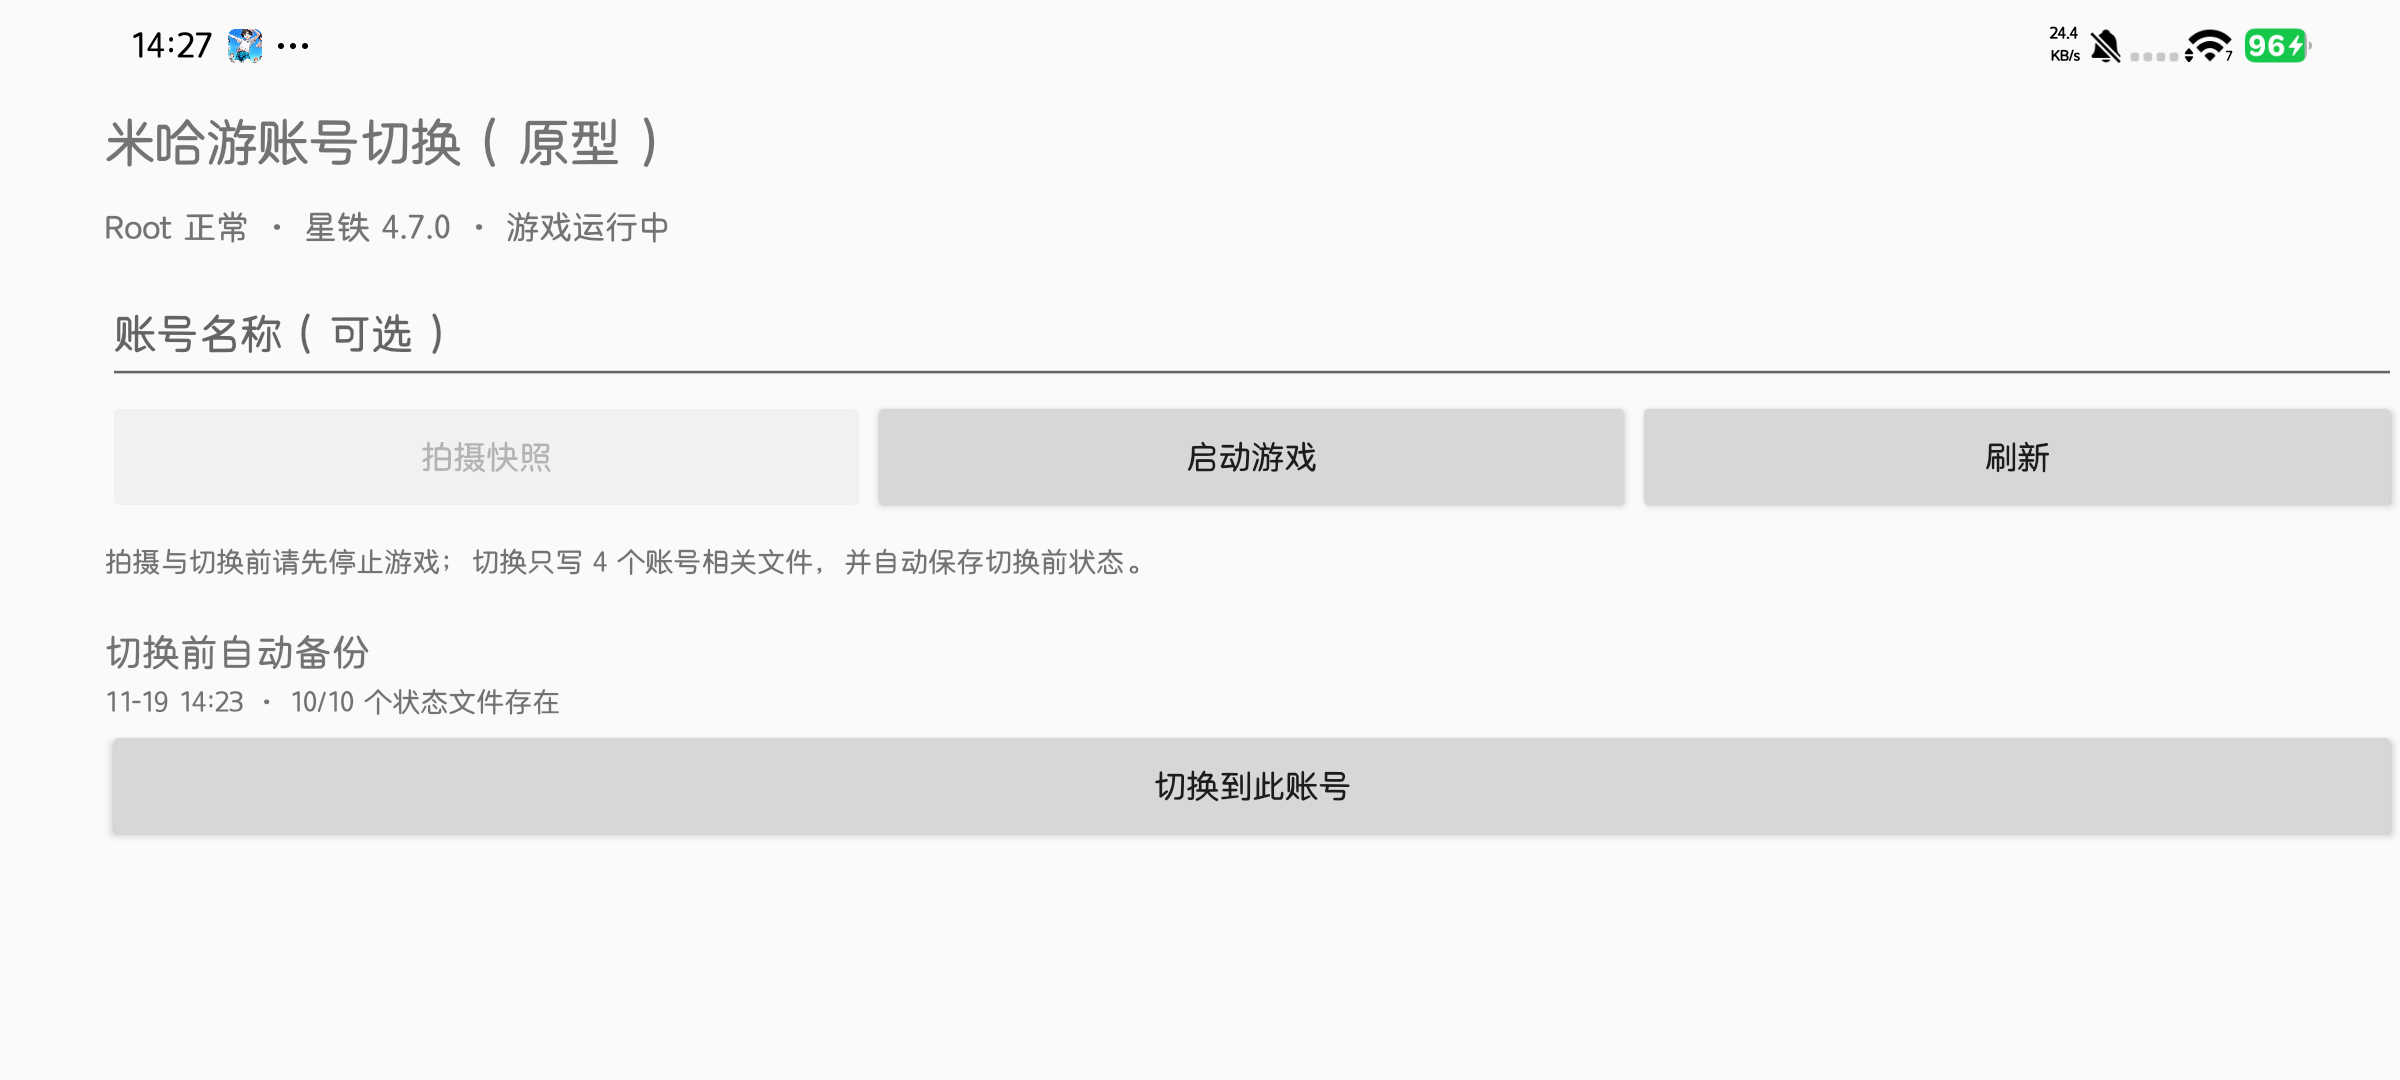
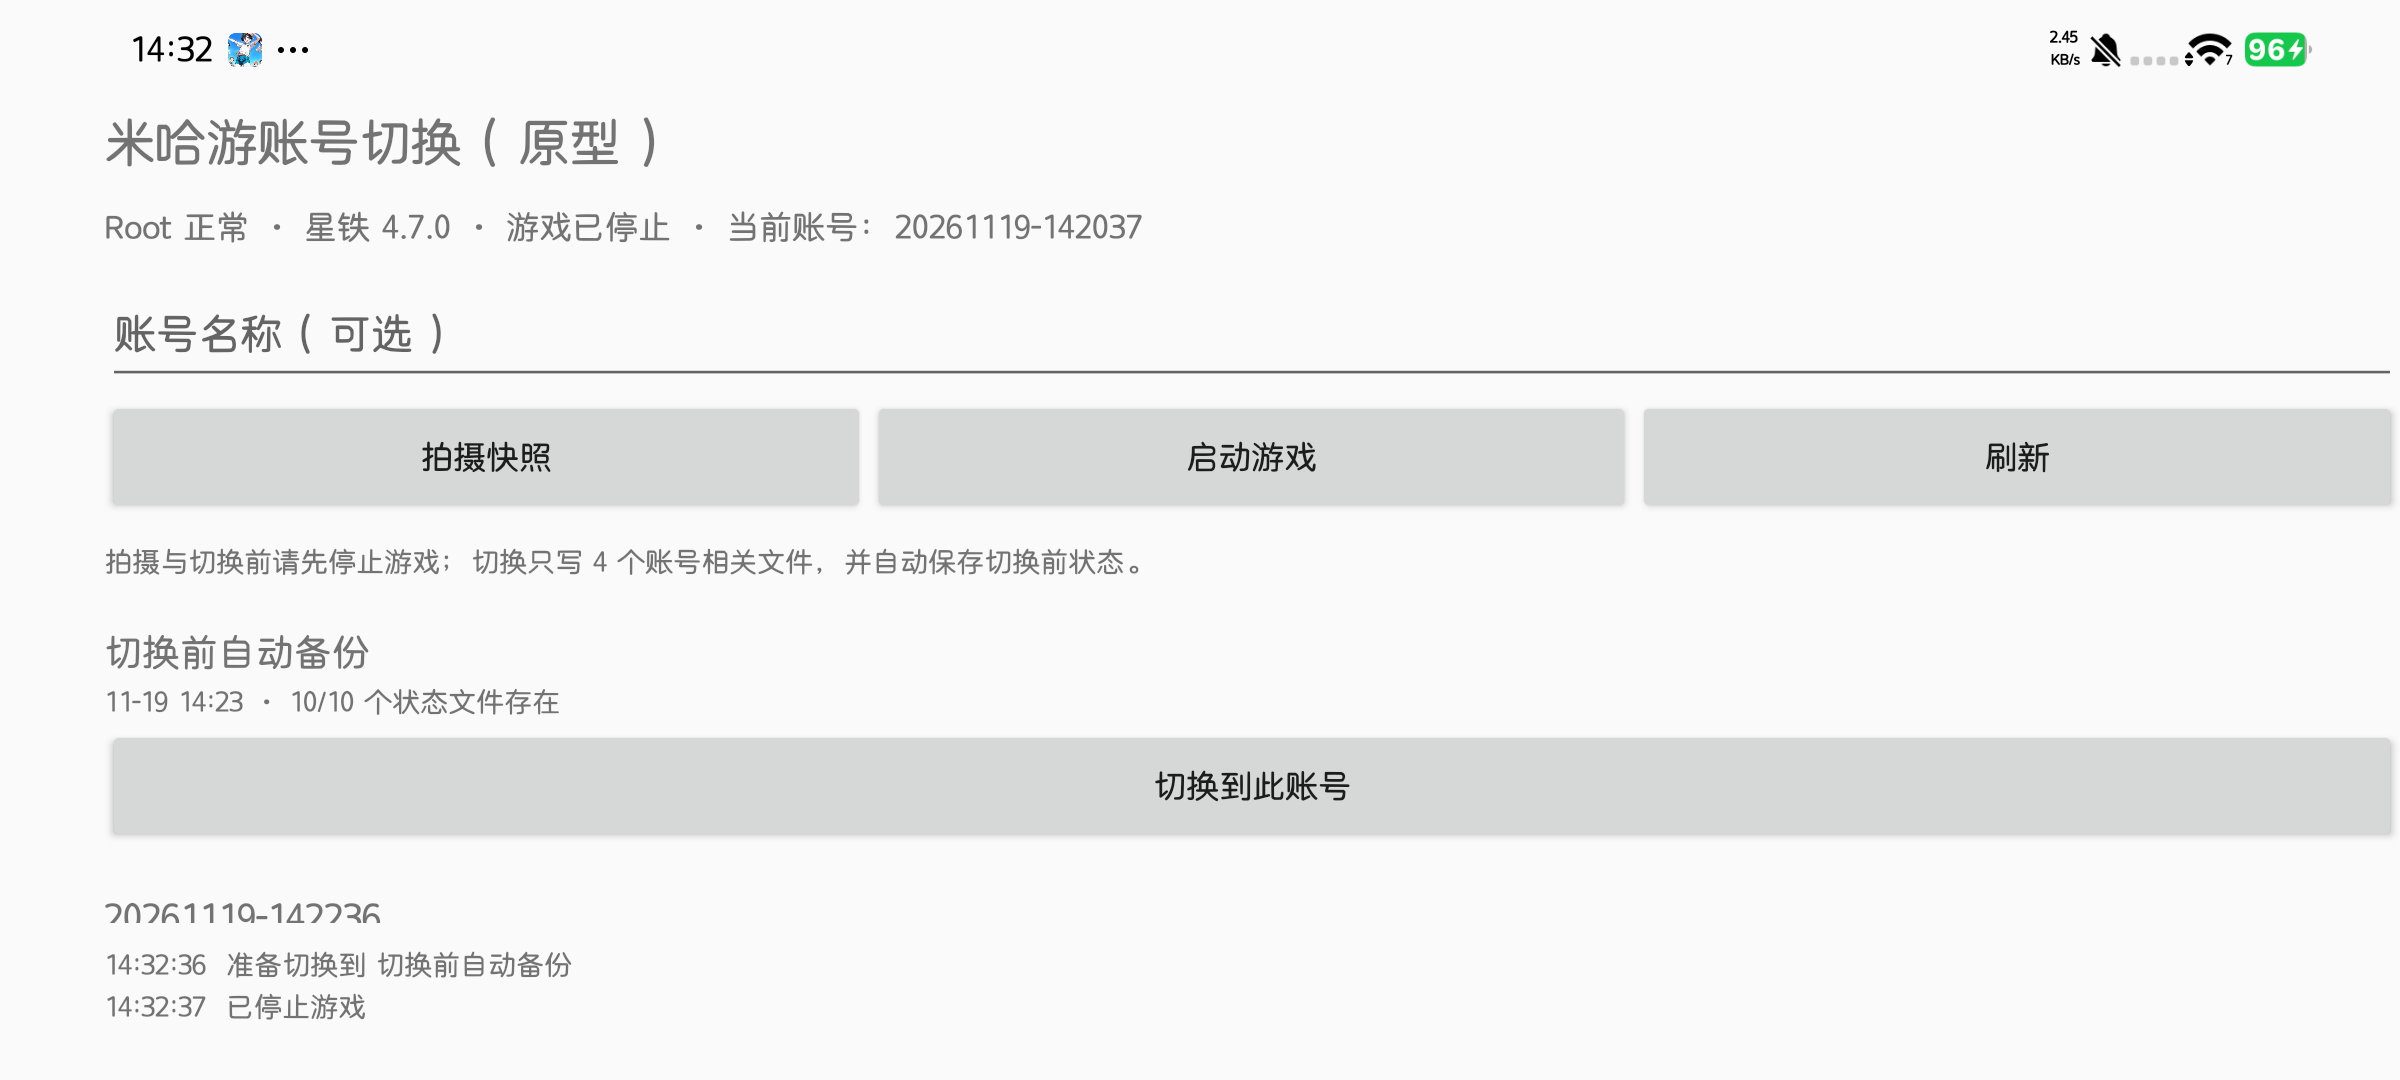
app: show the current account and confirm it before switching

diff --git a/app/src/dev/hoyoswitch/app/MainActivity.java b/app/src/dev/hoyoswitch/app/MainActivity.java
@@ -106,7 +106,7 @@ public final class MainActivity extends Activity {
         ScrollView logScroll = new ScrollView(this);
         logScroll.addView(logView);
         logScroll.setPadding(0, pad / 2, 0, 0);
-        int logHeight = (int) (90 * getResources().getDisplayMetrics().density);
+        int logHeight = (int) (60 * getResources().getDisplayMetrics().density);
         root.addView(logScroll, new LinearLayout.LayoutParams(
                 ViewGroup.LayoutParams.MATCH_PARENT, logHeight));
         logScrollRef = logScroll;
@@ -130,6 +130,7 @@ public final class MainActivity extends Activity {
             boolean running;
             String version;
             List<SnapshotStore.Snapshot> snapshots;
+            SnapshotStore.Current current;
             try {
                 running = StarRailProfile.isRunning();
                 version = StarRailProfile.version();
@@ -138,22 +139,58 @@ public final class MainActivity extends Activity {
                 version = "";
             }
             snapshots = store.list();
+            try {
+                current = store.detectCurrent();
+            } catch (IOException error) {
+                current = null;
+            }
             final boolean rootedNow = rooted;
             final boolean runningNow = running;
             final String versionNow = version;
             final List<SnapshotStore.Snapshot> listed = snapshots;
+            final SnapshotStore.Current currentNow = current;
             main.post(() -> {
+                SnapshotStore.Snapshot matched = match(currentNow, listed);
                 String rootText = rootedNow ? "Root 正常" : "未取得 Root：" + RootShell.lastError();
                 String gameText = versionNow.isEmpty() ? "未检测到星铁" : "星铁 " + versionNow;
                 statusView.setText(rootText + " · " + gameText + " · "
-                        + (runningNow ? "游戏运行中" : "游戏已停止"));
+                        + (runningNow ? "游戏运行中" : "游戏已停止")
+                        + " · 当前账号：" + describe(currentNow, matched));
                 captureButton.setEnabled(rootedNow && !runningNow && !busy);
-                renderCards(listed);
+                renderCards(listed, matched == null ? null : matched.id);
             });
         }).start();
     }
 
-    private void renderCards(List<SnapshotStore.Snapshot> snapshots) {
+    private SnapshotStore.Snapshot match(SnapshotStore.Current current,
+                                         List<SnapshotStore.Snapshot> snapshots) {
+        if (current == null || !current.loggedIn || current.mid.isEmpty()) {
+            return null;
+        }
+        for (SnapshotStore.Snapshot snapshot : snapshots) {
+            if (current.mid.equals(store.accountMid(snapshot))) {
+                return snapshot;
+            }
+        }
+        return null;
+    }
+
+    private String describe(SnapshotStore.Current current, SnapshotStore.Snapshot matched) {
+        if (current == null) {
+            return "无法判定";
+        }
+        if (!current.loggedIn) {
+            return "未登录";
+        }
+        if (matched != null) {
+            return matched.name;
+        }
+        return current.mid.isEmpty()
+                ? (current.note.isEmpty() ? "已登录，无法识别" : current.note)
+                : "已登录，但不在任何快照中";
+    }
+
+    private void renderCards(List<SnapshotStore.Snapshot> snapshots, String currentId) {
         cardList.removeAllViews();
         if (snapshots.isEmpty()) {
             TextView empty = new TextView(this);
@@ -169,7 +206,8 @@ public final class MainActivity extends Activity {
             card.setPadding(0, 20, 0, 20);
 
             TextView label = new TextView(this);
-            label.setText(snapshot.name);
+            boolean isCurrent = snapshot.id.equals(currentId);
+            label.setText(isCurrent ? snapshot.name + "　（当前登录）" : snapshot.name);
             label.setTextSize(16);
             card.addView(label, matchWrap());
 
@@ -198,18 +236,51 @@ public final class MainActivity extends Activity {
         }
     }
 
-    private void confirmSwitch(SnapshotStore.Snapshot snapshot) {
+    private void confirmSwitch(SnapshotStore.Snapshot target) {
+        if (busy) {
+            toast("上一个操作还没结束");
+            return;
+        }
+        busy = true;
+        appendLog("准备切换到 " + target.name);
+        new Thread(() -> {
+            try {
+                if (StarRailProfile.isRunning()) {
+                    StarRailProfile.forceStop();
+                    appendLog("已停止游戏");
+                }
+                SnapshotStore.Current current = store.detectCurrent();
+                List<SnapshotStore.Snapshot> snapshots = store.list();
+                String currentLabel = describe(current, match(current, snapshots));
+                main.post(() -> askSwitch(target, currentLabel));
+            } catch (Exception error) {
+                appendLog("失败：" + error.getMessage());
+                busy = false;
+                refresh();
+            }
+        }).start();
+    }
+
+    private void askSwitch(SnapshotStore.Snapshot target, String currentLabel) {
         new AlertDialog.Builder(this)
-                .setTitle("切换到 " + snapshot.name)
-                .setMessage("将停止游戏（如正在运行），写入账号相关文件，并自动保存切换前状态。继续？")
-                .setNegativeButton("取消", null)
-                .setPositiveButton("切换", (dialog, which) -> runOp("切换到 " + snapshot.name, () -> {
-                    if (StarRailProfile.isRunning()) {
-                        StarRailProfile.forceStop();
-                        appendLog("已停止游戏");
+                .setTitle("切换账号")
+                .setMessage("当前账号：" + currentLabel
+                        + "\n目标账号：" + target.name
+                        + "\n\n将写入 4 个账号文件，并自动保存切换前状态。继续？")
+                .setNegativeButton("取消", (dialog, which) -> {
+                    busy = false;
+                    refresh();
+                })
+                .setPositiveButton("切换", (dialog, which) -> new Thread(() -> {
+                    try {
+                        store.switchTo(target, true, this::appendLog);
+                    } catch (Exception error) {
+                        appendLog("失败：" + error.getMessage());
+                    } finally {
+                        busy = false;
+                        refresh();
                     }
-                    store.switchTo(snapshot, true, this::appendLog);
-                }))
+                }).start())
                 .show();
     }
 

diff --git a/app/src/dev/hoyoswitch/app/SnapshotStore.java b/app/src/dev/hoyoswitch/app/SnapshotStore.java
@@ -1,11 +1,15 @@
 package dev.hoyoswitch.app;
 
 import android.content.Context;
+import android.util.Xml;
 
 import org.json.JSONArray;
 import org.json.JSONException;
 import org.json.JSONObject;
+import org.xmlpull.v1.XmlPullParser;
+import org.xmlpull.v1.XmlPullParserException;
 
+import java.io.ByteArrayInputStream;
 import java.io.ByteArrayOutputStream;
 import java.io.File;
 import java.io.FileInputStream;
@@ -55,6 +59,13 @@ final class SnapshotStore {
     private static final String MANIFEST = "manifest.json";
     private static final int VERSION = 1;
 
+    /** What the device currently looks like, identified without displaying account ids. */
+    static final class Current {
+        boolean loggedIn;
+        String mid = "";
+        String note = "";
+    }
+
     private final File root;
 
     SnapshotStore(Context context) {
@@ -63,6 +74,73 @@ final class SnapshotStore {
 
     File fileOf(Snapshot snapshot, String relative) {
         return new File(new File(snapshot.dir, "files"), relative);
+    }
+
+    /**
+     * Identifies the account the client is currently on. Hashes cannot be used here: the client
+     * rewrites token, SDK prefs and the database timestamp on every launch. The account id is
+     * taken from the widget cache, which the account module refreshes after each login.
+     */
+    Current detectCurrent() throws IOException {
+        Current current = new Current();
+        byte[] prefs = readDevice(StarRailProfile.path("shared_prefs/porte_sdk_account_PRODUCT.xml"));
+        if (prefs == null) {
+            current.note = "读不到登录状态文件";
+            return current;
+        }
+        if (!"true".equals(preferenceValue(prefs, "boolean", "login_status"))) {
+            return current;
+        }
+        current.loggedIn = true;
+        byte[] widget = readDevice(StarRailProfile.path("shared_prefs/combo_widget.xml"));
+        String account = widget == null ? null : preferenceValue(widget, "string", "account");
+        if (account != null) {
+            current.mid = accountField(account, "mid");
+        }
+        if (current.mid.isEmpty()) {
+            current.note = "已登录，但读不到账号标识";
+        }
+        return current;
+    }
+
+    /** Account id stored in a snapshot's widget cache; empty when unreadable. */
+    String accountMid(Snapshot snapshot) {
+        try {
+            byte[] widget = readLocal(fileOf(snapshot, "shared_prefs/combo_widget.xml"));
+            String account = preferenceValue(widget, "string", "account");
+            return account == null ? "" : accountField(account, "mid");
+        } catch (IOException error) {
+            return "";
+        }
+    }
+
+    private static String preferenceValue(byte[] xml, String tag, String name) throws IOException {
+        try {
+            XmlPullParser parser = Xml.newPullParser();
+            parser.setInput(new ByteArrayInputStream(xml), "UTF-8");
+            int event;
+            while ((event = parser.next()) != XmlPullParser.END_DOCUMENT) {
+                if (event == XmlPullParser.START_TAG && tag.equals(parser.getName())
+                        && name.equals(parser.getAttributeValue(null, "name"))) {
+                    if ("boolean".equals(tag)) {
+                        return parser.getAttributeValue(null, "value");
+                    }
+                    return parser.nextText();
+                }
+            }
+        } catch (XmlPullParserException error) {
+            throw new IOException("解析偏好文件失败", error);
+        }
+        return null;
+    }
+
+    private static String accountField(String json, String field) {
+        try {
+            String value = new JSONObject(json).optString(field, "");
+            return value == null ? "" : value;
+        } catch (JSONException error) {
+            return "";
+        }
     }
 
     String capture(String name) throws IOException {

diff --git a/docs/app/账号切换App原型.md b/docs/app/账号切换App原型.md
@@ -9,6 +9,8 @@
 | Root 检测 | 依次探测 `su`、`/system/bin/su` 等候选路径，验证返回 `uid=0`；把失败原因显示在状态行 |
 | 星铁识别 | 包名、版本（`dumpsys package`）与进程状态（`pidof`）；游戏运行中禁用拍摄 |
 | 拍摄快照 | 读取 6 个偏好文件与 2 套数据库（含 `-journal`）共 10 个目标，逐文件记录大小、SHA-256、属主、权限、SELinux 上下文，副本存入 App 私有目录 |
+| 当前账号识别 | 读 Porte 的 `login_status` 判断是否登录，再用 `combo_widget.account` 的账号标识与各快照比对；状态行显示「当前账号：<快照名>」，对应卡片标注「当前登录」 |
+| 切换前确认 | 点切换后先停游戏、读取当前账号，再弹出「当前账号 → 目标账号」确认框；无法识别时明确写出「未登录」「不在任何快照中」或读取失败原因 |
 | 账号卡片 | 按时间倒序列出快照，显示名称、时间与「存在/总数」文件数 |
 | 切换账号 | 只写已验证的 4 个文件；写前自动拍安全快照，逐文件读回校验，失败自动回滚；可选自动启动游戏 |
 | 启动游戏 | `am start -W` 启动星铁 |
@@ -21,6 +23,7 @@
 - **写入方式**：把字节写到 `su -c "cat > 目标文件"` 的标准输入，保留 inode，因此属主、权限与 SELinux 上下文不变。
 - **安全快照**：每次切换前先完整拍一份当前状态；任一文件校验失败就按安全快照回滚，并在界面日志里说明。
 - **只写 4 个文件**：`porte_sdk_token_PRODUCT.xml`、`mihoyo_sdk_preference.xml`、`combo_widget.xml`、`PORTE_ACCOUNT_PRODUCT.db`（依据[账号状态快照](../tools/账号状态快照.md) 5.2／5.4 的实测结论）。
+- **当前账号识别**：不能用文件哈希——客户端每次启动都会重写令牌、SDK 偏好与数据库 `timestamp`，启动后哈希必然与快照不同。实际做法是读 `login_status` 判断是否登录，取 `combo_widget.account` 里的 `mid` 与各快照的同一字段比对；界面只显示快照名称，不显示账号标识。
 - **构建**：沿用无 Gradle 流程，`python .\app\build.py` 调用 aapt2 → javac → d8 → zipalign → apksigner，产物 `app/build/account-switch.apk`，本地调试密钥 `app/build/local-test.p12`（均被 Git 忽略）。
 
 ## 3. 目录
@@ -42,6 +45,8 @@ app/
 - 在 App 里点 A 卡片的「切换到此账号」并确认：自动停止游戏、写入 4 个文件、自动保存安全快照 `20261119-142313`（切换前 B 状态）、启动游戏。
 - 切换后账号库 1 行，`mid`/`aid` 与 A2 快照一致、与 B2 不一致；界面为「点击进入」＋「登出」；用户目视确认为账号 A。
 - 失败路径（写入中途失败、回滚）代码已实现，但本轮没有制造故障去触发，属未验证项。
+- 当前账号识别（14:32）：状态行显示「当前账号：20261119-142037」；点切换后对话框显示「当前账号：20261119-142037 / 目标账号：切换前自动备份」，取消后未写入任何文件。
+- 识别依据只有 `combo_widget` 缓存，未与数据库行交叉校验；缓存缺失时会显示「已登录，但读不到账号标识」或「已登录，但不在任何快照中」。
 
 ## 5. 已知限制
 

diff --git a/docs/PROGRESS.md b/docs/PROGRESS.md
@@ -11,6 +11,7 @@
 - 关键实现点：App 处于 per-app mount namespace，直接读 `/data/user/0/<游戏包>` 会 `No such file or directory`；改为所有 root 命令包一层 `nsenter -t 1 -m -- sh -c` 后恢复正常。
 - 本机验证（14:18–14:25）：App 内拍摄 A `20261119-142037`、B `20261119-142236`，均 10/10 文件；在 App 内切到 A，自动生成安全快照 `20261119-142313`，切换后账号库与 A2 一致、界面已登录，用户目视确认为 A。
 - 限制：快照未加密、仅星铁、无重命名/删除、UI 未设计、回滚路径未做故障注入。详见[账号切换 App 原型](app/账号切换App原型.md)。
+- 补充（14:32）：新增「当前账号识别」与「切换前确认」。状态行显示当前快照名，对应卡片标注「当前登录」；点切换会先停游戏、读取当前账号，再弹出「当前账号 → 目标账号」确认框，取消不写入任何文件。识别采用 `login_status` + `combo_widget.account` 的账号标识，不用文件哈希——客户端每次启动都会重写令牌与数据库时间戳。
 
 ## 2026-11-19 第八轮：新数据代复验，4 文件切换可复现
 
